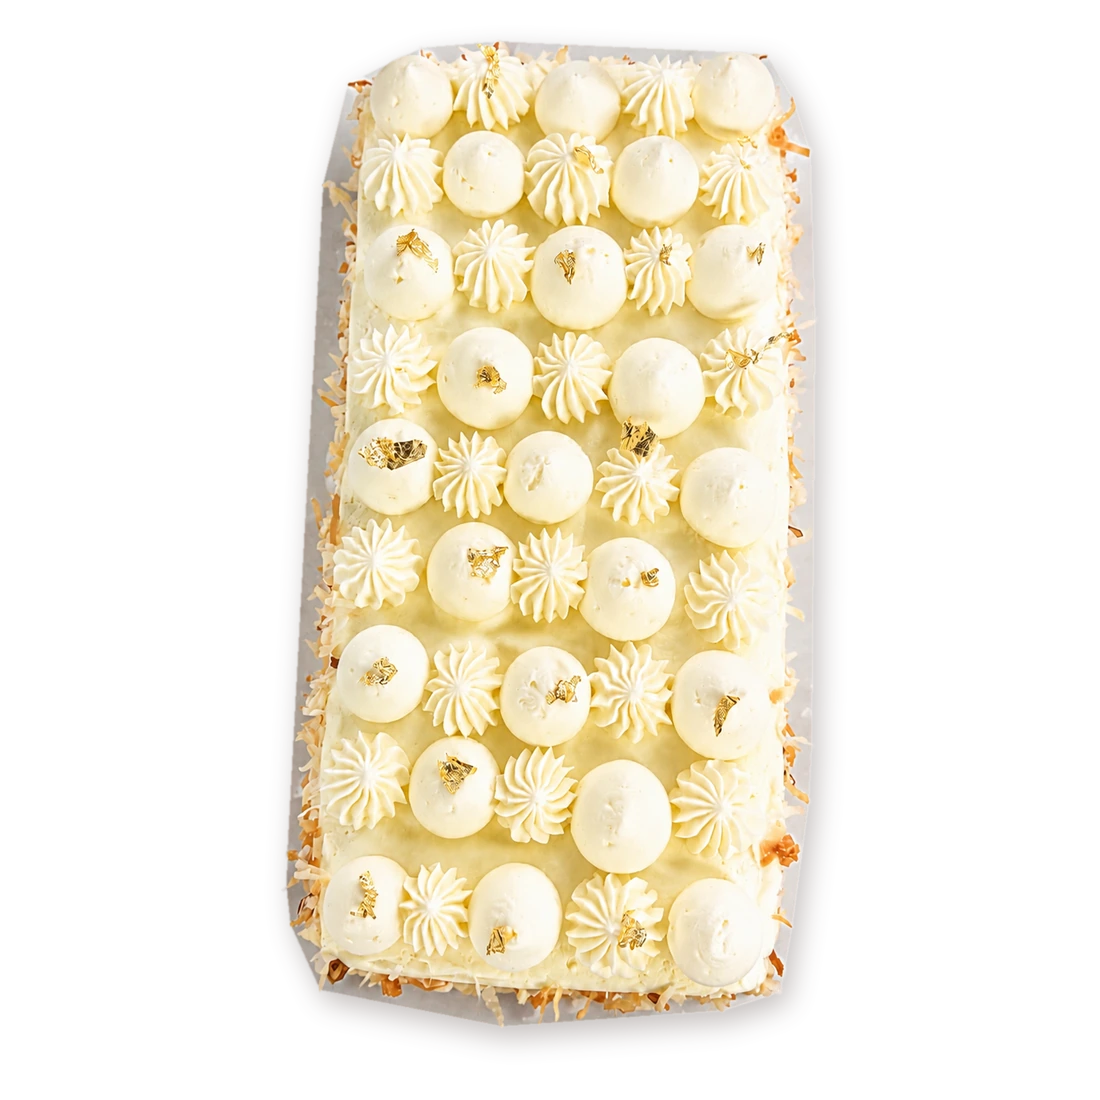
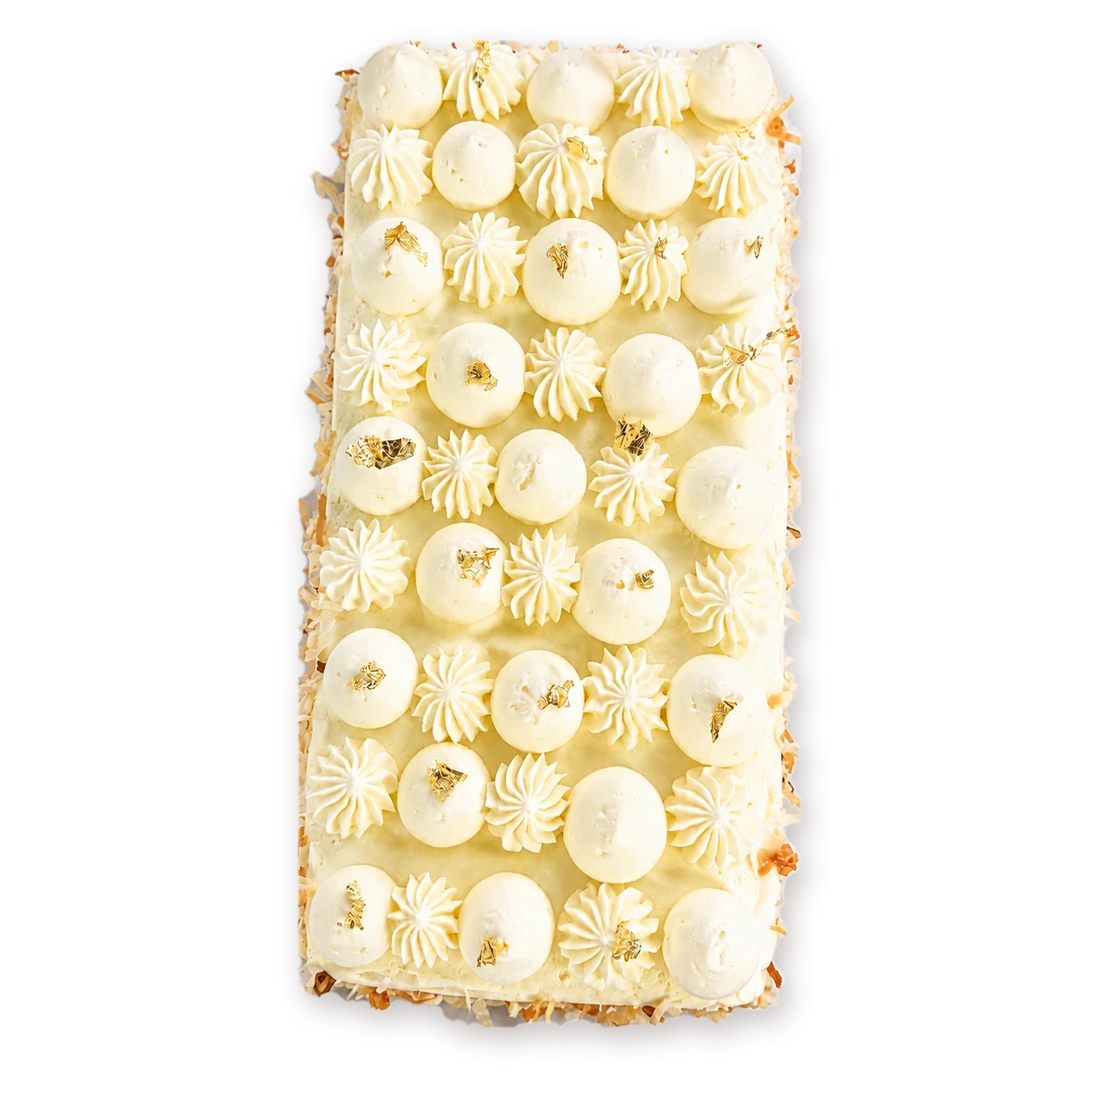
Pastel de coco: vista desde arriba limpia

Changed region(s): [[0.2473, 0.0309, 0.7727, 0.9582]]

diff --git a/index.html b/index.html
@@ -374,7 +374,7 @@ const PHOTOS={choc_strawberries:1,rect_r01:2,rect_r02:2,rect_r03:2,rect_r04:2,re
 P.forEach(p => { if (SEASONAL[p.id]) p.seasonal = true; if (PHOTOS[p.id]){ p.photo = true; p.views = PHOTOS[p.id]; } });
 
 
-const BUILD = '202611110520';
+const BUILD = '202611110525';
 let lang = 'es', cat = 'cupcakes', tag = null, current = -1, view = 'out', list = [];
 try { const s = JSON.parse(localStorage.getItem('ytb-cat') || '{}'); if (s.lang) lang = s.lang; } catch(e) {}
 const $ = id => document.getElementById(id);
